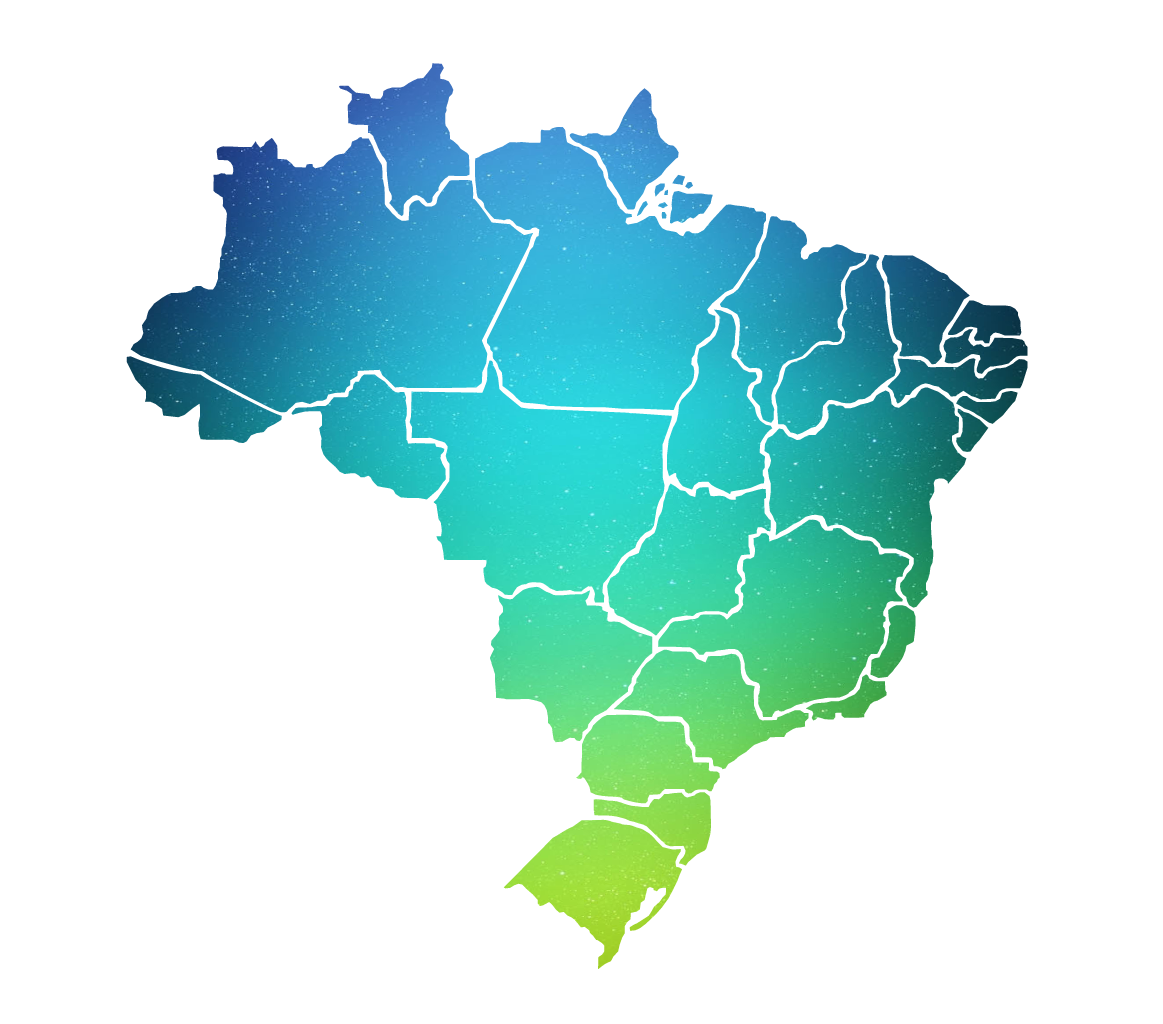
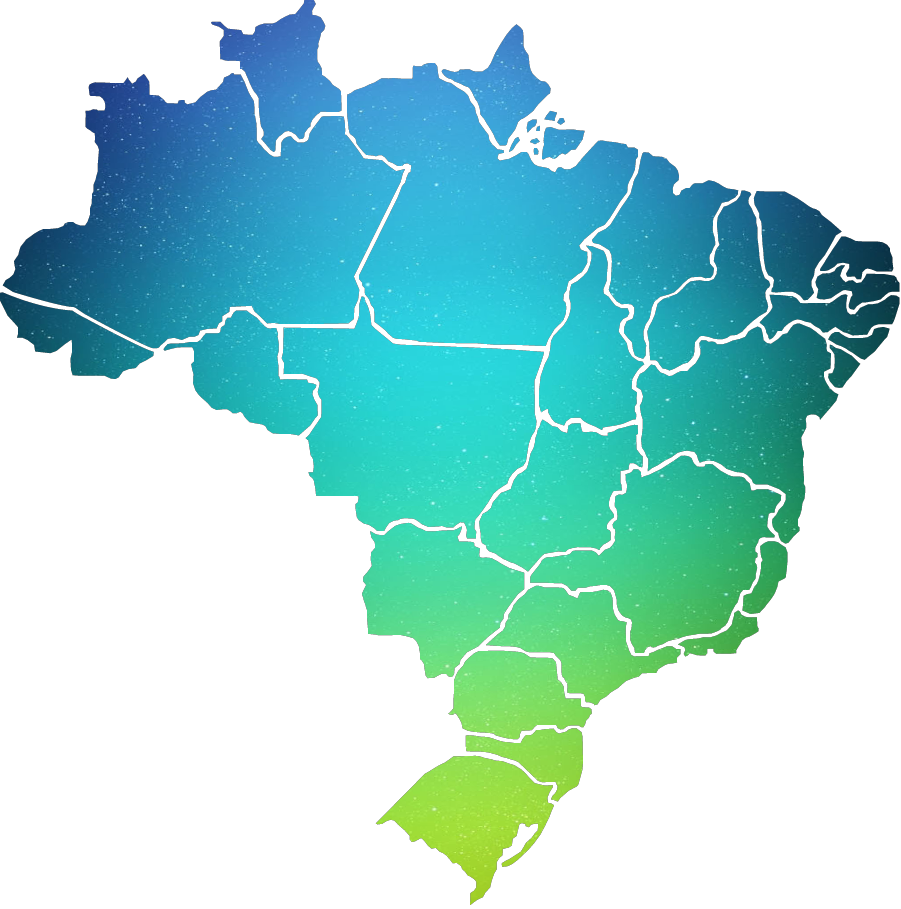
Correção posição dos elementos home

Changed region(s): [[0.0, 0.0, 1.0, 1.0]]

diff --git a/static/style.css b/static/style.css
@@ -1,6 +1,6 @@
 html {
-    background-color: #EBF5F9;
-    box-sizing: border-box;
+    /* background-color: #EBF5F9; */
+    /* box-sizing: border-box; */
     font-family: 'Montserrat';
     margin:0;
     padding:0;
@@ -9,7 +9,7 @@ header{
     display: flex;
     background: #0068C0;
     width: 100%;
-    margin:0;
+    margin-bottom:0;
     padding:0;
 }
 
@@ -48,18 +48,48 @@ ul li a ::after{
 ul li a :hover::after{
     width: 100%;
 }
-.text-box{
-    margin-top: 130px;
-}
-.text-box h1{
-    font-size: 40px;
-}
-.text-box h3{
-    font-size: 15px;
-}
-.Brasil{
-    color:#009c3b
-}
+.baner {
+    width:100%;
+    height:500px;
+    /* background-color:#0F0; */
+    margin-top: 0;
+  }
+  
+  .text-box {
+    margin-top: 100px;
+    margin-left: 50px;
+    padding-right: 50px; /* Ajuste o valor conforme necessário */
+    /* background-color:aqua; */
+    width: 500px;
+    height: 500px;
+    float: left;
+    align-items: center;
+  }
+  
+  .right-column {
+    /* background-color:rgb(219, 11, 46); */
+    margin-top:15px;
+    width: 700px;
+    height: 500px;
+    float: right;
+  }
+  
+  .right-column img {
+    max-width: 700px;
+    max-height: 500px;
+  }
+  
+  .text-box h1 {
+    /* font-size: 40px; */
+  }
+  
+  .text-box h3 {
+    /* font-size: 25px; */
+  }
+  
+  .Brasil {
+    color: #009c3b;
+  }
 .rodape{
     background-color:#0068C0;
     color:#f9f9f9;

diff --git a/static/home.html b/static/home.html
@@ -18,14 +18,14 @@
             </ul>
         </nav>
     </header>
-    <div class="baner ">
+    <div class="baner">
+        <div class = "right-column">
+            <img alt = "Mapa do Brasil" src="../img/mapa_brasil.png"> 
+        </div>
         <div class = "text-box">
             <h1>Seasonal Ilness system <span class ="Brasil">Brasil</span></h1>
             <h3>Sistema de informação de doenças sazonais no Brasil</h3>
             <p>Lorem ipsum dolor sit amet, consectetur adipiscing elit. Sed ultricies mi a risus fringilla laoreet. In scelerisque commodo magna id auctor.</p>           
-        </div>
-        <div class = "right-column">
-            <img alt = "Mapa do Brasil" src="../img/mapa_brasil.png"> 
         </div>
     </div>    
     <footer class = "rodape">
